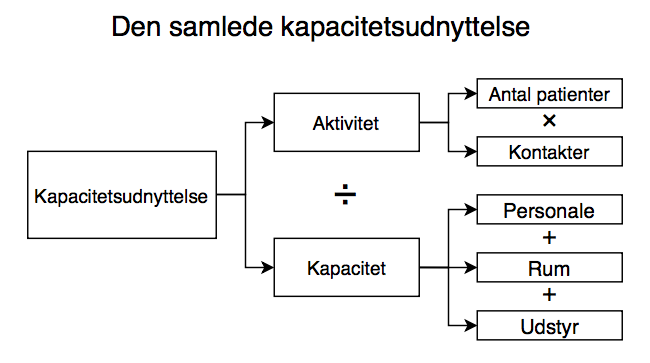
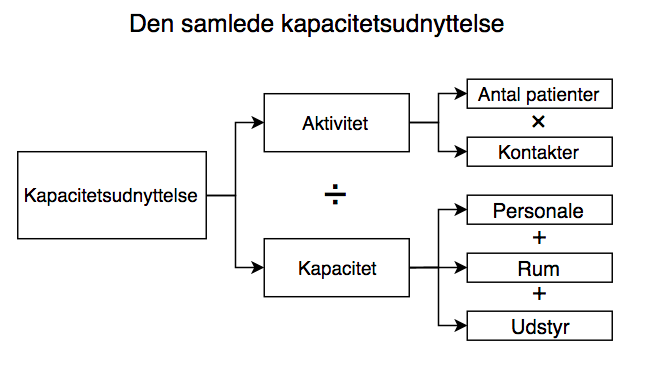
Tjekket % og lavet figur

diff --git a/contents/bProblemanalyse/Kapacitetsudnyttelse.tex b/contents/bProblemanalyse/Kapacitetsudnyttelse.tex
@@ -5,7 +5,7 @@ Kapacitetudnyttelse betegner forholdet mellem aktivitet og kapacitet. Aktivitet 
 \begin{figure}[H]
 	\flushleft 
 	\centering
-	\includegraphics[scale=.7]{figures/Kapacitetsudnyttelse.png}
+	\includegraphics[scale=.65]{figures/Kapacitetsudnyttelse.png}
 	\flushleft
 	\caption{\textit{Den samlede kapacitetsudnyttelse som er definineret ved forholdet mellem aktivitet og kapacitet. Aktivitet omfatter antallet af patienter samt kontakter og kapacitet omfatter personale, rum og udstyr.}\cite{Company2013}}
 	\label{kapacitet}
@@ -17,7 +17,7 @@ Ud fra \figref{kapacitet} fremgår det, at kapacitetsudnyttelse er forholdet mel
 Belægning er defineret ud fra antallet af patienter, der er normeret til på en afdeling\cite{Heidmann2014}. Når en $100~\%$ belægning opnås, svarer dette til, at de disponible sengepladser på en afdeling er taget i brug. Ved en belægning på over $100~\%$ betyder det, at der er flere patienter end afdelingen er normeret til, hvilket vil sige, at afdelingen yder mere end der er kapacitet til. Ud fra \figref{kapacitet} vil dette betyde, at der ikke er ligevægt mellem aktivitet og kapacitet, hvilket i dette tilfælde vil forårsage kapacitetsmangel på afdelingen. Det kan derfor være nødvendigt, at personalet skal varetage flere patienter samt arbejdsopgaver, det kan ligeledes være nødvendigt at tilkalde ekstra personale for at opnå en balance i kapacitetsudnyttelsen.
 Hvis der derimod er en belægning på under $100~\%$ er der omvendt færre patienter end afdelingen er normeret til. Dette betyder, at der er flere sengepladser end patienter, hvilket ligeledes fører til en ubalance i kapacitetsudnyttelsen. I denne situation er der mere personale end nødvendigt til at varetage de enkelte patienter, hvilket betyder, at der ikke er fuld udnyttelse af personalets arbejdskraft.\cite{Pauly1986} 
 
-Det anses herved vigtigt, at der er balance mellem aktivitet og kapacitet, således de investerede ressourcer udnyttes optimalt. Det ønskes derfor at opnå en kapacitetsudnyttelse på 100\%. Ud fra dette vil der fremover undersøges betydningen af kapacitetsudnyttelse på ortopædkirurgisk afdeling på Aalborg Universitetshospital. 
+Det anses herved vigtigt, at der er balance mellem aktivitet og kapacitet, således de investerede ressourcer udnyttes optimalt. Det ønskes derfor at opnå en kapacitetsudnyttelse på $100~\%$. Ud fra dette vil der fremover undersøges betydningen af kapacitetsudnyttelse på ortopædkirurgisk afdeling på Aalborg Universitetshospital. 
 
 \subsection{Ortopædkirurgisk afdeling}
 Kapacitetsudnyttelse afhænger af det budget som hver afdeling har til rådighed. Dette budget udregner Sundhedsstyrrelsen ud fra diagnoserelaterede grupper (DRG). DRG anvendes til at analysere omkostninger og aktivitet på et hospital.\cite{DRG2016} Ortopædkirurgisk afdeling har et budget på $700.872.744$ kr, som svarer til 17,2 \% af det samlede budget for alle afdelinger på Aalborg Universitetshospital. Det samlede DRG for afdelingerne på Aalborg Universitetshospital er illusteret af \figref{DRG_budget}.\cite{Rasmussen2016}
@@ -27,7 +27,7 @@ Størstedelen af budgettet anvendes til personale- og patientudgifter, som svare
 \begin{figure}[H]
 	\flushleft 
 	\centering
-	\includegraphics[scale=0.40]{figures/Ortopaeddiagram.png}
+	\includegraphics[scale=0.45]{figures/Ortopaeddiagram.png}
 	\flushleft
 	\caption{\textit{Fordeling af DRG for samtlige afdelinger på Aalborg Universitetshospital. Det fremgår, at ortopædkirurigisk afdeling har en større andel end de resterende afdelinger.}\cite{Rasmussen2016}}
 	\label{DRG_budget}
@@ -43,7 +43,7 @@ På ortopædkirurgisk afdeling på Aalborg Universitetshospital arbejder persona
 % Hvordan foregår indlæggelsen på OA på AUH? Hvornår indlæggelses patienterne (elektive patienter) og hvornår på dagen udskrives patienter (både elektive og akutte patienter) Hvor mange patienter hhv. akutte vs. elektive patienter? Hvad er deres buffer i forhold til elektive patienter, således der er plads til de akutte indlæggelser? indkaldes elektive patienter, hvis der er mindre akutte i en periode end der er estimeret til? Øges den normerede kapacitet under overbelægning ved at indkalde vikarbureau? (Altså tager man samme mængde elektive patienter ind.) 
 
 
-Som beskrevet i afsnit \ref{kap} ønskes en 100\% kapacitetsudnyttelse, dertil ønskes ligeledes en belægning på 100\%. 
+Som beskrevet i afsnit \ref{kap} ønskes en $100~\%$ kapacitetsudnyttelse, dertil ønskes ligeledes en belægning på $100~\%$. 
 For at opfylde dette skal der være ligevægt mellem antallet af sengepladser og patientindlæggelser. På ortopædkirurgisk afdeling har de XX sengepladser til rådighed, som er fordelt på XX afsnit.
 
 Ortopædkirurgisk afdeling modtager både elektive samt akutte patienter. Elektive patienter omfatter både indlagte og ambulante patienter. Ved pludselig forværret tilstand kan elektive patienter skifte status fra elektiv til akut. Akutte patienter defineres som personer, der er henvist til hospitalet efter en akut opstået tilstand. Sammenlignes der med de resterende afdelinger på Aalborg Universitetshospital, har ortopædkirurgisk afdeling flest elektive indlæggelser.\cite{RegionNord2016} Elektive patienter indlægges i tidsrummet XX-XX og udskrives i tidsrummet XX-XX. Udskrivelsen af akutte patienter foregår i samme tidsrum. På afdelingen planlægges elektive patienter med forbehold for, at der er uforudsigelige indlæggelser af akutte patienter pr. XX. Herunder planlægges XX elektive patienter, således at der er plads til XX akutte patienter.\fxnote{Vi mangler informationer for at kunne skrive dette færdigt + tilføjelse af Sebastians grafer (elektive/akuttte) + (indlæggelse/udskrivelse)}

diff --git a/contents/bProblemanalyse/Kapacitetsmangel.tex b/contents/bProblemanalyse/Kapacitetsmangel.tex
@@ -16,10 +16,10 @@ Ved overarbejde må en arbejdsuge for en sygeplejerske, ifølge arbejdstidsaftal
 %Hvordan påvirker kapacitetsmangel ift. brandsikkerhed? Laver personalet flere fejl, som går ud over patienterne ved overbelægning? Hvordan fungerer omrokering af patienter (gangarealer, vaskerum ect.)? Hvor omkostningsfuldt er det for OA’s budget? brandsikkerhed og Genindlæggelse
 Under perioder med kapacitetsmangel er det ofte nødvendigt at overflytte patienter til andre afdelinger, gangarealer eller fyldte stuer, herved er det ofte patienter, der snart udskrives, der overflyttes. \fxnote{Sygeplejersker: Vi vil gerne høre om der prioriteres i forhold til hvilke patienter der flyttes. Er der en bestemt afdeling i flytter patienterne over på eventuelt en afdeling der ligner ortopædkirurgisk?} Overflytningen kan belaste både fysiske og psykiske forhold for patienter såvel som pårørende\cite{Heidmann2014}. Herunder kan skærpet privatliv forekomme hos patienter, der er flyttet til gangarealer og fyldte stuer\cite{Madsen2014}. 
 
-Som nævnt i afsnit \ref{Per_sik} forringes kvaliteten af behandlingen ved overarbejde, dertil ses det ligeledes, at mortalitetsraten øges med $1,2~\%$ ved en overskridelse af belægningen med $10~\%$, ifølge et dansk studie fra år 2014\cite{Madsen2014}. Hertil understreges det, at der kan være ukendte parametre, der påvirker mortalitetsraten, og det nødvendigvis ikke er belægning, der er den primære årsag til en øget mortalitet. For at undgå forringet kvalitet af behandling forsøges det at få patienterne udskrevet tidligere, således et ønske om balance mellem aktivitet og kapacitet opnås.
+Som nævnt i afsnit \ref{Per_sik} forringes kvaliteten af behandlingen ved overarbejde, dertil ses det ligeledes, at mortalitetsraten øges med $1,2~\%$ ved en overskridelse af belægningen med $10~\%$, ifølge et dansk studie fra år $2014$\cite{Madsen2014}. Hertil understreges det, at der kan være ukendte parametre, der påvirker mortalitetsraten, og det nødvendigvis ikke er belægning, der er den primære årsag til en øget mortalitet. For at undgå forringet kvalitet af behandling forsøges det at få patienterne udskrevet tidligere, således et ønske om balance mellem aktivitet og kapacitet opnås.
 
 %\fxnote{Tidligere afsnit: Hvordan er fordelingen af elektive og akutte patinter? Kan elektive patienter tages ind før der er normalbelægning?} 
 
-Der tilkaldes en brandvagt til afdelingen, hvis en belægning over 100\% har fundet sted i over 4 timer for således at sikre patienterne ved evakuering under brand. En brandvagt kan højest overvåge to afdelinger på samme etage, hvorfor det kan være nødvendigt, at der indkaldes flere. Det er afdelingens ansvar at afvikle overbelægningen hurtigst muligt ved at udskrive patienter eller overflytte patienter til andre afdelinger. \fxnote{Har skal indsættes hvis de har et samarbejde med en anden afdeling} Hver gang der tilkaldes en brandvagt faktureres dette af Aalborg Universitetshospital.\cite{Beredskab2016}
+Der tilkaldes en brandvagt til afdelingen, hvis en belægning over $100~\%$ har fundet sted i over $4$ timer for således at sikre patienterne ved evakuering under brand. En brandvagt kan højest overvåge to afdelinger på samme etage, hvorfor det kan være nødvendigt, at der indkaldes flere. Det er afdelingens ansvar at afvikle overbelægningen hurtigst muligt ved at udskrive patienter eller overflytte patienter til andre afdelinger. \fxnote{Har skal indsættes hvis de har et samarbejde med en anden afdeling} Hver gang der tilkaldes en brandvagt faktureres dette af Aalborg Universitetshospital.\cite{Beredskab2016}
 
 

diff --git a/contents/bProblemanalyse/Omfangafproblem.tex b/contents/bProblemanalyse/Omfangafproblem.tex
@@ -28,5 +28,5 @@ For at underbygge belægningsgraden yderligere, illustrerer \figref{antaldage} a
 \end{figure}
 
 \noindent
-Det fremgår af \figref{antaldage}, at der i oktober måned år $2014$ opleves en belægning på over $100\%$ i 19 dage, sammenlignes dette med oktober måned på \figref{maxminbelaeg} ses en belægning på $130~\%$. Der ses ligeledes en sammenhæng mellem de resterende måneder for de to grafer. 
+Det fremgår af \figref{antaldage}, at der i oktober måned år $2014$ opleves en belægning på over $100~\%$ i $19$ dage, sammenlignes dette med oktober måned på \figref{maxminbelaeg} ses en belægning på $130~\%$. Der ses ligeledes en sammenhæng mellem de resterende måneder for de to grafer. 
 Ud fra den anvendte data fremgår det ikke, hvor mange patienter, der udgør en belægningsgrad over $100~\%$, samt hvor længe de enkelte patienter er indlagt på afdelingen. Da belægningsgraden og antal dage kan variere for hver måned anses $18$ måneder ikke som værende repræsentativ, for at kunne vurdere problemets omfang. Ud fra belægningsgraden kan det dog tyde på, at en effektivisering af planlægningen af patienter på ortopædkirurgisk afdelingen vil kunne medføre en balance i kapacitetsudnyttelsen.
